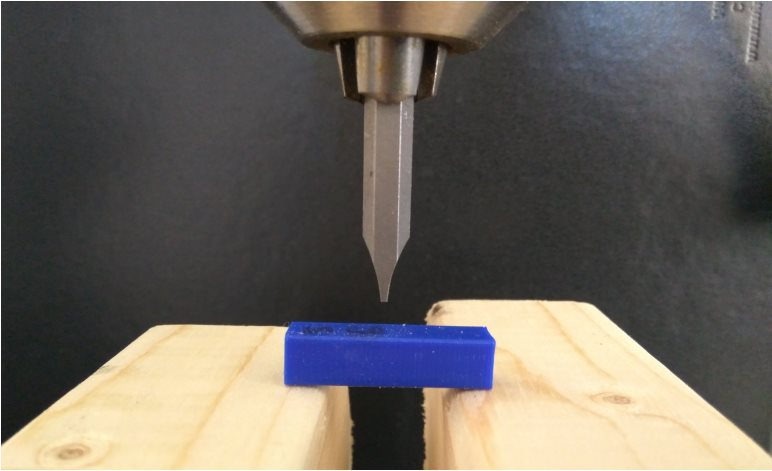
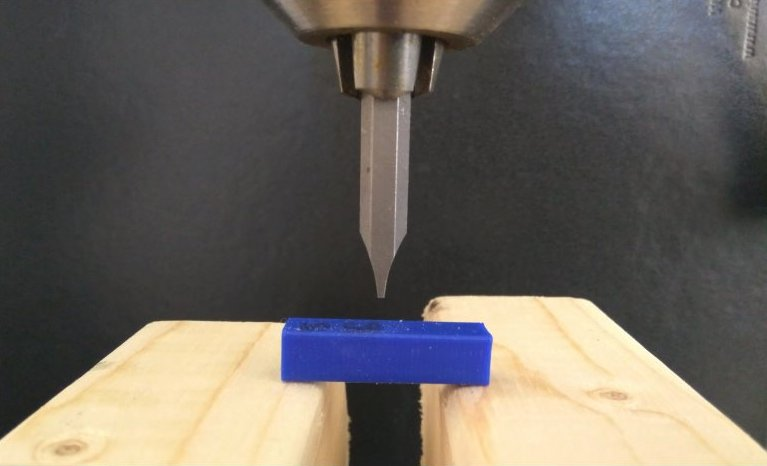
Update backlinks

diff --git a/content/posts/2018/06/sourdough-starter-monitor/index.md b/content/posts/2018/06/sourdough-starter-monitor/index.md
@@ -9,6 +9,9 @@ title = "Monitoring the Fermentation of Sourdough Starter with Computer Vision"
 type = "project"
 
 +++
+
+> Featured on [MagPi Issue 72](/files/MagPi72.pdf#page=12), [Hackaday](https://hackaday.com/2018/06/27/raspberry-pi-tracks-starter-fermentation-for-optimized-sourdough/), [Hacker News](https://news.ycombinator.com/item?id=17390066), [Adafruit](https://blog.adafruit.com/2018/07/06/using-computer-vision-to-ferment-the-perfect-sourdough-yeast-piday-raspberrypi-raspberry_pi/), [Hackster.io](https://www.hackster.io/news/using-computer-vision-to-ferment-the-perfect-sourdough-yeast-70ac6d226acb) and [The Guardian](https://www.theguardian.com/food/2019/mar/13/sourdough-is-silicon-valleys-latest-craze-could-i-beat-the-coders-and-bake-the-perfect-loaf)!
+
 Bread, the quintessence of life. People have survived for centuries off this staple consisting only of flour, water, salt, and yeast. Try consuming all these ingredients separately, and you'll be in for a digestive surprise. However, mix them together and let time do its thing, and the result is the release of profound flavour, texture, and nutrients that were previously locked away.
 
 Despite it being relatively easy to turn dough into something that looks and feels like bread, the challenge is in squeezing every possible ounce of flavour and texture (using only those four ingredients) to achieve the embodiment of a true loaf of bread. The secret to artisinal bread is **all in the fermentation.** A baker's skill is in their ability to manage and control the fermentation process, which is usually achieved through countless months and/or years of trial and error.

diff --git a/content/posts/2017/06/sous-vide-pla/index.md b/content/posts/2017/06/sous-vide-pla/index.md
@@ -9,9 +9,11 @@ layout = "single"
 tags = ["3d printing"]
 +++
 
-<p class="text-center" style="font-style:oblique">
-Featured on <a href="http://hackaday.com/2017/06/17/annealing-plastic-for-stronger-prints/" target="_blank">Hackaday</a> and <a href="https://www.fictiv.com/blog/posts/june-hardware-roundup" target="_blank">Fictiv Blog</a>!
-</p>
+> Featured on [Hackaday](http://hackaday.com/2017/06/17/annealing-plastic-for-stronger-prints/), [3D Printing.com](https://3dprinting.com/filament/engineer-reveals-easy-way-strengthen-pla-annealing-heat-bath/), [All3DP](https://all3dp.com/2/annealing-pla-prints-for-strength-easy-ways/), and [Fictiv Blog](https://www.fictiv.com/blog/posts/june-hardware-roundup). Also cited in a few research papers[^10]<sup>, </sup>[^11].
+
+[^10]:  [Identifying a commercially-available 3D printing process that minimizes model distortion after annealing and autoclaving and the effect of steam sterilization on mechanical strength](https://threedmedprint.biomedcentral.com/articles/10.1186/s41205-020-00062-9), April 2020
+
+[^11]: [The effect of annealing on deformation and mechanical strength of tough PLA and its application in 3D printed prosthetic sockets](https://www.emerald.com/insight/content/doi/10.1108/rpj-04-2021-0090/full/html), August 2021
 
 Yep, you heard it right. With all the craze surrounding cooking sous vide these days, it was only a matter of time before someone decided to venture using it outside of the culinary world. Turns out that someone also had a 3D printer, and _you won't believe what happened next!_
 

diff --git a/content/posts/2021/02/levain-monitor/index.md b/content/posts/2021/02/levain-monitor/index.md
@@ -10,6 +10,9 @@ type = "project"
 math = true
 
 +++
+
+> Featured on [Hackaday](https://hackaday.com/2021/03/04/smart-lid-spies-on-sourdough-starter-sends-data-wirelessly/)!
+
 A few years ago, I had the idea to [track my sourdough starter using computer vision]({{< ref "/posts/2018/06/sourdough-starter-monitor" >}}). It was neat to monitor it this way, but it was fairly impractical to do for each feeding since it required setting up a camera, downloading the images, and doing some manual image cropping before running it through my analysis script. The analysis was also only done after the fact, and what I really wanted was something that could tell me when the starter was ready to be used (or fed), or, if I missed the window of opportunity, how long ago it peaked.
 
 Last year, I came across [this Reddit thread](https://www.reddit.com/r/Sourdough/comments/duhqmd/i_built_a_device_that_tracks_the_development_of/) and [Christine Sunu's sourd.io project](https://www.twilio.com/blog/sourd-io-is-a-fitness-tracker-for-your-sourdough-starter), where they both had distance sensors inside the lid to measure the height of the starter. I thought it was genius, and had to make one for myself! However, in addition to the live monitoring, I wanted to log the data for further analysis, so I also decided to make it internet-connected as a way to get the data off the device (since saving to an SD card would add hardware costs, as well as being less "sexy" in today's world of everything having wifi connectivity).

diff --git a/content/about.md b/content/about.md
@@ -20,7 +20,7 @@ Of course, reality had other plans. But in a way, I never really stopped chasing
 
 I'm currently working as a software engineer, leaving my roots in hardware behind, but continuing to be someone who likes to tinker.
 
-In the past, I filled my evenings and weekends with side projects and hacks that were sometimes noticed: my [bamboo bike](/posts/2014/08/bamboo-bike), using [sous vide to anneal 3D printed parts](https://hackaday.com/2017/06/17/annealing-plastic-for-stronger-prints/), or [monitoring sourdough fermentation with computer vision](/files/MagPi72.pdf#page=12). Now, I’m trying to live a little slower with a little less hustle and little more balance.
+In the past, I filled my evenings and weekends with side projects and hacks that were sometimes noticed: my [bamboo bike](/posts/2014/08/bamboo-bike), using [sous vide to anneal 3D printed parts](/posts/2017/06/sous-vide-pla), or [monitoring sourdough fermentation with computer vision](/posts/2018/06/sourdough-starter-monitor). Now, I’m trying to live a little slower with a little less hustle and little more balance.
 
 This site is my little corner of the internet, where I can think out loud, share what I’m learning, and make things at my own pace. It’s a creative outlet that ebbs and flows with what’s going on with my life.
 
